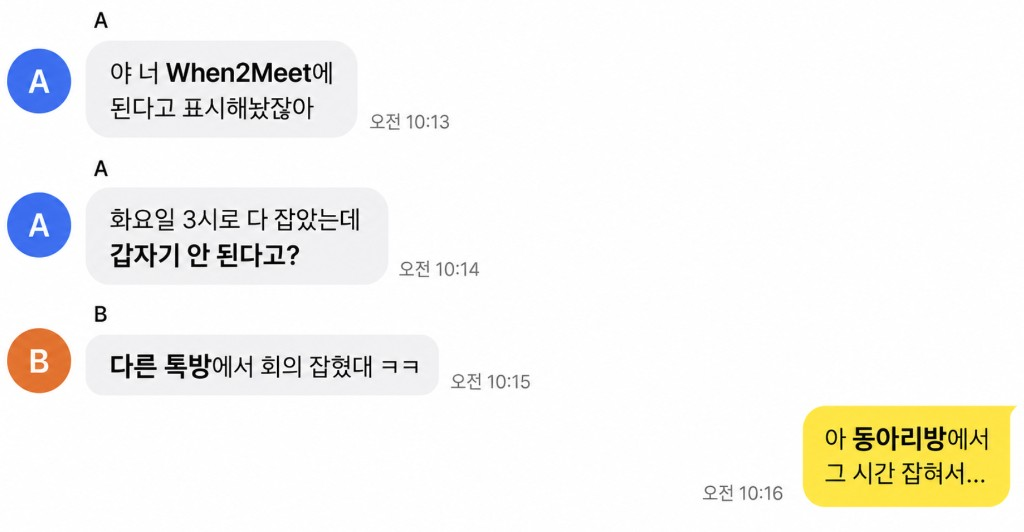
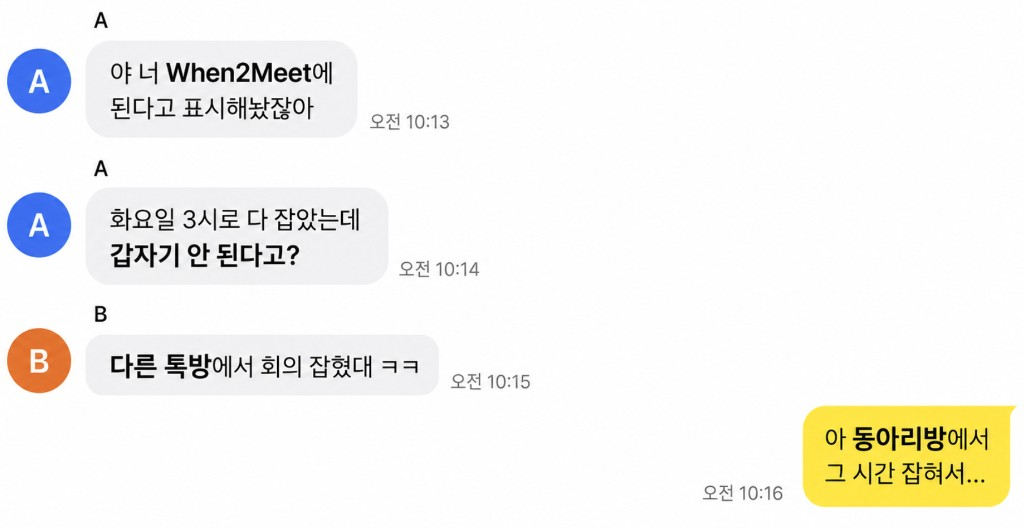
Fill pitch slide-1 chat image and trim excess whitespace.

diff --git a/public/pitch.html b/public/pitch.html
@@ -194,9 +194,9 @@
       /* —— 개편 레이아웃 —— */
       .hero-bridge {
         display: grid;
-        grid-template-columns: 1fr 0.85fr 1fr;
-        gap: 16px;
-        align-items: center;
+        grid-template-columns: 1.15fr 0.7fr 1fr;
+        gap: 14px;
+        align-items: stretch;
         flex: 1;
         min-height: 0;
         margin-top: 12px;
@@ -243,18 +243,18 @@
         border: 2.5px solid var(--blue);
         box-shadow: 5px 5px 0 rgba(29, 78, 216, 0.12);
         height: 100%;
+        min-height: 0;
         max-height: 4.6in;
         overflow: hidden;
         display: flex;
-        align-items: center;
-        justify-content: center;
-        padding: 6px;
+        align-items: stretch;
+        padding: 0;
       }
       .hero-chat img {
         width: 100%;
         height: 100%;
-        object-fit: contain;
-        object-position: center;
+        object-fit: cover;
+        object-position: center top;
         display: block;
       }
       .mini-kakao {
